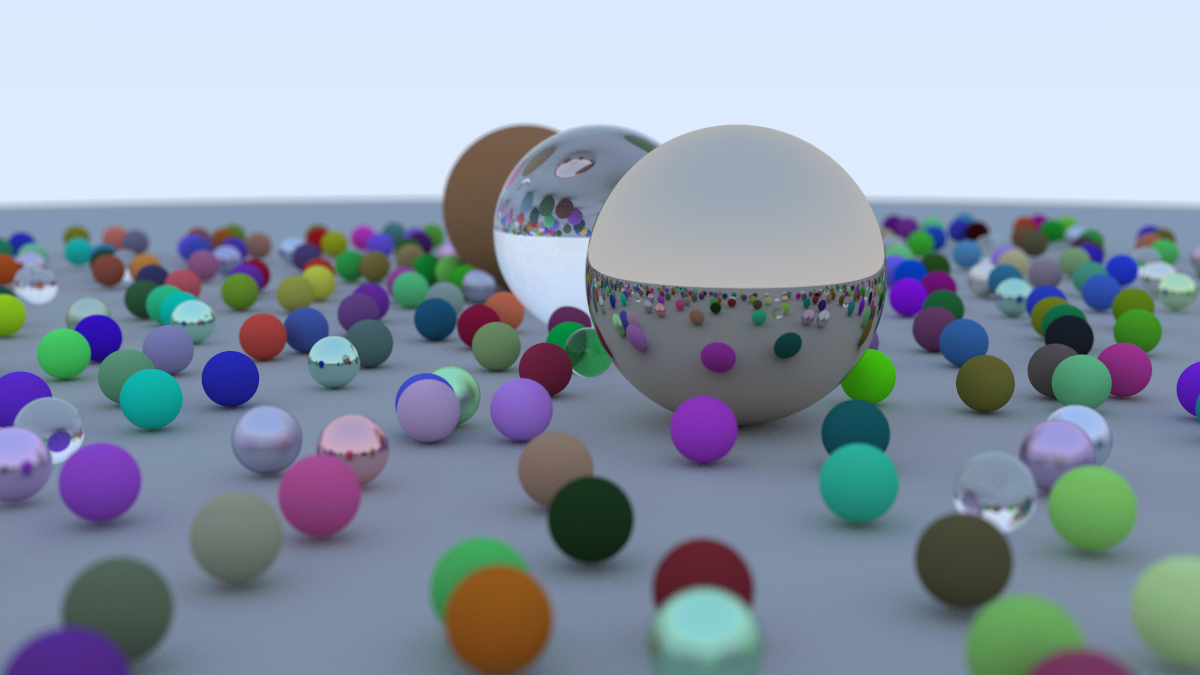
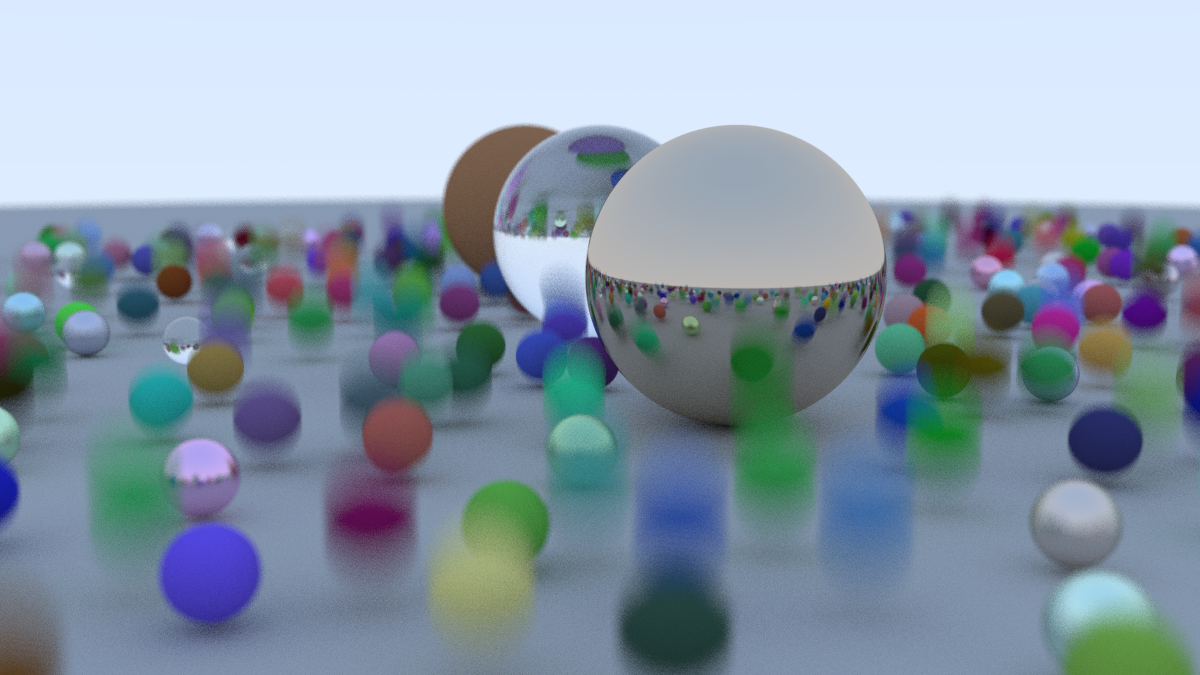
add bvh, we quick now

diff --git a/bvh.js b/bvh.js
@@ -1,0 +1,98 @@
+import { surroundingAABB } from "./aabb.js";
+
+function boxCompare(a, b, axis) {
+    // compare w/ bbox min on given axis
+    return a.bbox.min[axis] - b.bbox.min[axis];
+}
+
+function sortRange(items, start, end, compareFn) {
+    const sorted = items.slice(start, end).sort(compareFn);
+    items.splice(start, end - start, ...sorted); // ??
+}
+
+function aabbLongestAxis(box) {
+    const dx = box.max[0] - box.min[0];
+    const dy = box.max[1] - box.min[1];
+    const dz = box.max[2] - box.min[2];
+
+    if (dx > dy) {
+        return dx > dz ? 0 : 2;
+    }
+
+    return dy > dz ? 1 : 2;
+}
+
+function spanAABB(items, start, end) {
+    let box = items[start].bbox;
+
+    for (let i = start + 1; i < end; i++) {
+        box = surroundingAABB(box, items[i].bbox);
+    }
+
+    return box;
+}
+
+export function buildBVH(spheres) {
+    // keep original sphere index
+    const items = spheres.map((sphere, index) => ({
+        sphere,
+        sphereIndex: index,
+        bbox: sphere.bbox,
+    }))
+
+    const nodes = [];
+    const rootIndex = buildBVHRange(items, 0, items.length, nodes);
+
+    return {
+        nodes,
+        rootIndex,
+    };
+}
+
+function buildBVHRange(items, start, end, nodes) {
+    // keep index for curr created node, pre-order allocation
+    const nodeIndex = nodes.length;
+    nodes.push(null);
+
+    // build bbox for the entire span first
+    const objectSpan = end - start;
+    const bbox = spanAABB(items, start, end);
+
+    // leaf node
+    if (objectSpan === 1) {
+        const item = items[start];
+        nodes[nodeIndex] = {
+            bbox: item.bbox,
+            leftIndex: -1,
+            leftIndex: -1,
+            sphereIndex: item.sphereIndex,
+            sphereCount: 1,
+        }
+        return nodeIndex;
+    }
+
+    // internal node (sort and split along the widest axis)
+    const axis = aabbLongestAxis(bbox);
+
+    sortRange(items, start, end, (a, b) => {
+        return boxCompare(a, b, axis);
+    });
+
+    const mid = start + Math.floor(objectSpan / 2);
+
+    const leftIndex = buildBVHRange(items, start, mid, nodes);
+    const rightIndex = buildBVHRange(items, mid, end, nodes);
+
+    const left = nodes[leftIndex];
+    const right = nodes[rightIndex];
+
+    nodes[nodeIndex] = {
+        bbox: surroundingAABB(left.bbox, right.bbox),
+        leftIndex,
+        rightIndex,
+        sphereIndex: -1,
+        sphereCount: 0,
+    };
+
+    return nodeIndex;
+}

diff --git a/main.js b/main.js
@@ -115,6 +115,8 @@ async function main() {
     });
     device.queue.writeBuffer(cameraBuffer, 0, cameraData);
 
+    const { materials, spheres, bvh } = createFinalScene();
+
     // sphere
     const SLOTS_PER_SPHERE = 8;
     const BYTES_PER_SPHERE = SLOTS_PER_SPHERE * 4; // 32 bit each
@@ -134,7 +136,19 @@ async function main() {
 
     const MAT_OFFSET_ALBEDO = 4;
 
-    const { materials, spheres } = createFinalScene();
+    // bvh node
+    const SLOTS_PER_BVH_NODE = 12;
+    const BYTES_PER_BVH_NODE = SLOTS_PER_BVH_NODE * 4;
+
+    const BVH_OFFSET_BBOX_MIN = 0; // 0, 1, 2
+    const BVH_OFFSET_LEFT_INDEX = 3;
+
+    const BVH_OFFSET_BBOX_MAX = 4; // 4, 5, 6
+    const BVH_OFFSET_RIGHT_INDEX = 7;
+
+    const BVH_OFFSET_SPHERE_INDEX = 8;
+    const BVH_OFFSET_SPHERE_COUNT = 9;
+
 
     // sphere buffer
     const sphereBufferData = new ArrayBuffer(spheres.length * BYTES_PER_SPHERE); // raw bytes
@@ -187,6 +201,39 @@ async function main() {
         usage: GPUBufferUsage.STORAGE | GPUBufferUsage.COPY_DST
     });
     device.queue.writeBuffer(materialBuffer, 0, materialBufferData);
+
+    // bvh buffer
+    const bvhBufferData = new ArrayBuffer(bvh.nodes.length * BYTES_PER_BVH_NODE);
+    const bvhF32 = new Float32Array(bvhBufferData);
+    const bvhI32 = new Int32Array(bvhBufferData);
+    const bvhU32 = new Uint32Array(bvhBufferData);
+
+    function writeBVHNode(i, node) {
+        const base = i * SLOTS_PER_BVH_NODE;
+
+        bvhF32.set(node.bbox.min, base + BVH_OFFSET_BBOX_MIN);
+        bvhI32[base + BVH_OFFSET_LEFT_INDEX] = node.leftIndex;
+
+        bvhF32.set(node.bbox.max, base + BVH_OFFSET_BBOX_MAX);
+        bvhI32[base + BVH_OFFSET_RIGHT_INDEX] = node.rightIndex;
+
+        bvhI32[base + BVH_OFFSET_SPHERE_INDEX] = node.sphereIndex;
+        bvhU32[base + BVH_OFFSET_SPHERE_COUNT] = node.sphereCount;
+
+        bvhU32[base + 10] = 0;
+        bvhU32[base + 11] = 0;
+    }
+
+    for (let i = 0; i < bvh.nodes.length; i++) {
+        writeBVHNode(i, bvh.nodes[i]);
+    }
+
+    const bvhBuffer = device.createBuffer({
+        size: bvhBufferData.byteLength,
+        usage: GPUBufferUsage.STORAGE | GPUBufferUsage.COPY_DST,
+    });
+
+    device.queue.writeBuffer(bvhBuffer, 0, bvhBufferData);
 
     // render params
     const paramsData = new Uint32Array(4);
@@ -256,6 +303,10 @@ async function main() {
                     binding: 4,
                     resource: oldAccumView
                 },
+                {
+                    binding: 5,
+                    resource: { buffer: bvhBuffer }
+                },
             ]
         });
     }
@@ -285,6 +336,8 @@ async function main() {
     function render() {
         paramsData[0] = frameIndex;
         paramsData[1] = samplesPerFrame;
+        paramsData[2] = bvh.rootIndex;
+        paramsData[3] = bvh.nodes.length;
 
         device.queue.writeBuffer(paramsBuffer, 0, paramsData);
 

diff --git a/aabb.js b/aabb.js
@@ -1,0 +1,43 @@
+import { vec3 } from "./vec3.js";
+
+export function createAABB(min, max) {
+    // two points as extrema for bounding box
+    return {
+        min: vec3.fromValues(
+            Math.min(min[0], max[0]),
+            Math.min(min[1], max[1]),
+            Math.min(min[2], max[2]),
+        ),
+        max: vec3.fromValues(
+            Math.max(min[0], max[0]),
+            Math.max(min[1], max[1]),
+            Math.max(min[2], max[2]),
+        ),
+    };
+}
+
+export function sphereAABB(center, radius) {
+    const c = center;
+    const r = radius;
+
+    return createAABB(
+        vec3.fromValues(c[0] - r, c[1] - r, c[2] - r),
+        vec3.fromValues(c[0] + r, c[1] + r, c[2] + r),
+    )
+}
+
+export function surroundingAABB(a, b) {
+    // create larger bbox from 2 bbox
+    return createAABB(
+        vec3.fromValues(
+            Math.min(a.min[0], b.min[0]),
+            Math.min(a.min[1], b.min[1]),
+            Math.min(a.min[2], b.min[2]),
+        ),
+        vec3.fromValues(
+            Math.max(a.max[0], b.max[0]),
+            Math.max(a.max[1], b.max[1]),
+            Math.max(a.max[2], b.max[2]),
+        ),
+    );
+}

diff --git a/scene.js b/scene.js
@@ -1,4 +1,6 @@
 import { vec3 } from "./vec3.js";
+import { sphereAABB, surroundingAABB } from "./aabb.js";
+import { buildBVH } from "./bvh.js";
 
 const MAT_LAMBERTIAN = 0;
 const MAT_METAL = 1;
@@ -19,21 +21,30 @@ export function createFinalScene() {
     }
 
     function addStationarySphere(center, radius, materialIndex) {
-        spheres.push({
+        const sphere = {
             center0: center,
             center1: center,
             radius,
             materialIndex,
-        });
+            bbox: sphereAABB(center, radius),
+        };
+
+        spheres.push(sphere);
     }
 
     function addMovingSphere(center0, center1, radius, materialIndex) {
-        spheres.push({
+        const bbox0 = sphereAABB(center0, radius);
+        const bbox1 = sphereAABB(center1, radius);
+
+        const sphere = {
             center0,
             center1,
             radius,
             materialIndex,
-        });
+            bbox: surroundingAABB(bbox0, bbox1),
+        };
+
+        spheres.push(sphere);
     }
 
     // ground
@@ -140,5 +151,7 @@ export function createFinalScene() {
 
     addStationarySphere(vec3.fromValues(4, 1, 0), 1.0, material3);
 
-    return { materials, spheres };
+    const bvh = buildBVH(spheres);
+
+    return { materials, spheres, bvh };
 }

diff --git a/readme.md b/readme.md
@@ -7,4 +7,5 @@ browser-based ray tracing implementation using webgpu with no extra dependencies
 
 ## references 
 - [_Ray Tracing in One Weekend_](https://raytracing.github.io/books/RayTracingInOneWeekend.html)
+- [_Ray Tracing: The Next Week_](https://raytracing.github.io/books/RayTracingTheNextWeek.html)
 - [_WebGPU Fundamentals_](https://webgpufundamentals.org/webgpu/lessons/webgpu-fundamentals.html)